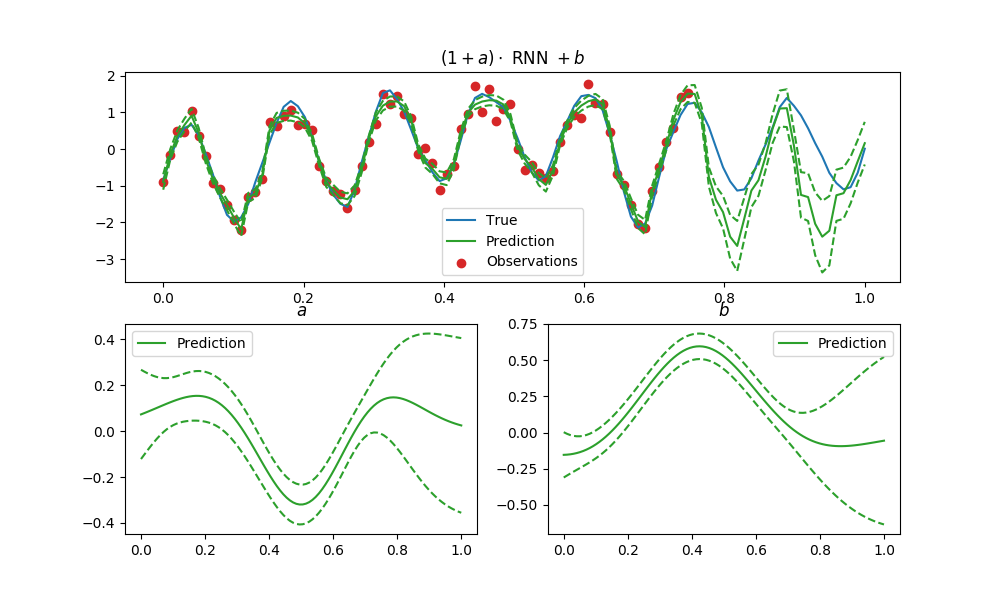
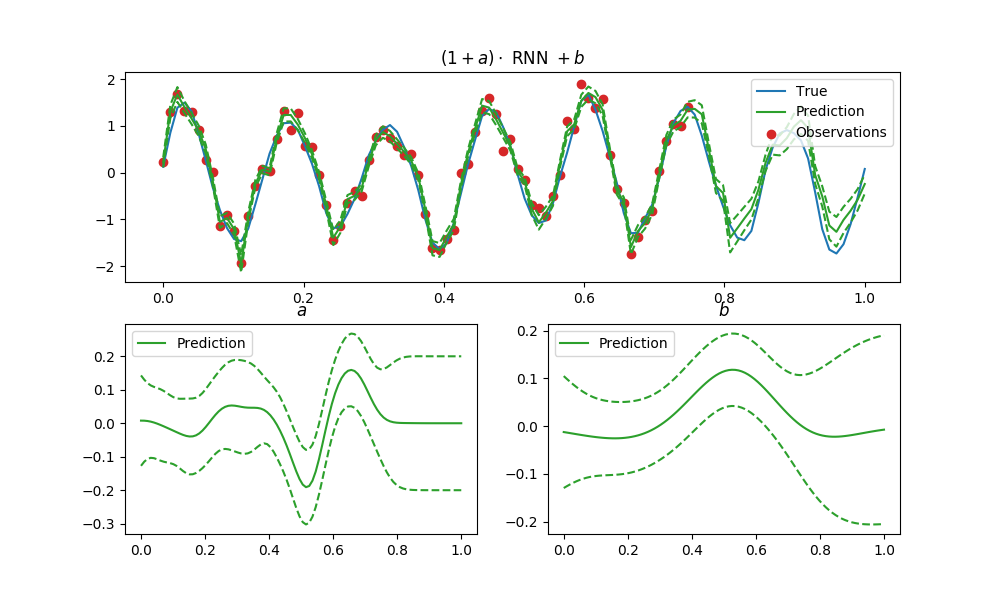
Update GP-RNN example

diff --git a/readme_example8_gp_rnn.py b/readme_example8_gp_rnn.py
@@ -43,9 +43,9 @@ y_true = (y_true - np.mean(y_true)) / np.std(y_true)
 y_obs = y_true[inds_obs]
 
 # Construct the model.
-a = vs_gp.pos(1.0) * GP(EQ()).stretch(vs_gp.pos(0.1))
-b = vs_gp.pos(1.0) * GP(EQ()).stretch(vs_gp.pos(0.1))
-e = vs_gp.pos(0.2) * GP(Delta())
+a = 0.1 * GP(EQ()).stretch(vs_gp.pos(0.1))
+b = 0.1 * GP(EQ()).stretch(vs_gp.pos(0.1))
+e = vs_gp.pos(0.1) * GP(Delta())
 
 # RNN-only model:
 y_rnn = rnn + e
@@ -62,22 +62,16 @@ lml_gp_rnn = y_gp_rnn(x_obs).log_pdf(y_obs)
 opt_rnn = tf.train.AdamOptimizer(1e-2).minimize(
     -lml_rnn, var_list=vs_rnn.vars
 )
-opt_gp = SOI(-lml_gp_rnn,
-             options={'disp': True, 'maxiter': 10},
-             var_list=vs_gp.vars)
 opt_jointly = tf.train.AdamOptimizer(1e-3).minimize(
     -lml_gp_rnn, var_list=vs_rnn.vars + vs_gp.vars
 )
 s.run(tf.global_variables_initializer())
 
-# Pre-train the RNN.
-for i in range(500):
+# Nudge the RNN into the right direction.
+for i in range(2000):
     _, val = s.run([opt_rnn, lml_rnn])
     if i % 100 == 0:
         print(i, val)
-
-# Pre-train the GPs.
-opt_gp.minimize(s)
 
 # Jointly train the RNN and GPs.
 for i in range(5000):

diff --git a/doc/readme.rst b/doc/readme.rst
@@ -591,9 +591,9 @@ Example: A GP–RNN Model
     y_obs = y_true[inds_obs]
 
     # Construct the model.
-    a = vs_gp.pos(1.0) * GP(EQ()).stretch(vs_gp.pos(0.1))
-    b = vs_gp.pos(1.0) * GP(EQ()).stretch(vs_gp.pos(0.1))
-    e = vs_gp.pos(0.2) * GP(Delta())
+    a = 0.1 * GP(EQ()).stretch(vs_gp.pos(0.1))
+    b = 0.1 * GP(EQ()).stretch(vs_gp.pos(0.1))
+    e = vs_gp.pos(0.1) * GP(Delta())
 
     # RNN-only model:
     y_rnn = rnn + e
@@ -610,22 +610,16 @@ Example: A GP–RNN Model
     opt_rnn = tf.train.AdamOptimizer(1e-2).minimize(
         -lml_rnn, var_list=vs_rnn.vars
     )
-    opt_gp = SOI(-lml_gp_rnn,
-                 options={'disp': True, 'maxiter': 10},
-                 var_list=vs_gp.vars)
     opt_jointly = tf.train.AdamOptimizer(1e-3).minimize(
         -lml_gp_rnn, var_list=vs_rnn.vars + vs_gp.vars
     )
     s.run(tf.global_variables_initializer())
 
-    # Pre-train the RNN.
-    for i in range(500):
+    # Nudge the RNN into the right direction.
+    for i in range(2000):
         _, val = s.run([opt_rnn, lml_rnn])
         if i % 100 == 0:
             print(i, val)
-
-    # Pre-train the GPs.
-    opt_gp.minimize(s)
 
     # Jointly train the RNN and GPs.
     for i in range(5000):

diff --git a/README.md b/README.md
@@ -563,9 +563,9 @@ y_true = (y_true - np.mean(y_true)) / np.std(y_true)
 y_obs = y_true[inds_obs]
 
 # Construct the model.
-a = vs_gp.pos(1.0) * GP(EQ()).stretch(vs_gp.pos(0.1))
-b = vs_gp.pos(1.0) * GP(EQ()).stretch(vs_gp.pos(0.1))
-e = vs_gp.pos(0.2) * GP(Delta())
+a = 0.1 * GP(EQ()).stretch(vs_gp.pos(0.1))
+b = 0.1 * GP(EQ()).stretch(vs_gp.pos(0.1))
+e = vs_gp.pos(0.1) * GP(Delta())
 
 # RNN-only model:
 y_rnn = rnn + e
@@ -582,22 +582,16 @@ lml_gp_rnn = y_gp_rnn(x_obs).log_pdf(y_obs)
 opt_rnn = tf.train.AdamOptimizer(1e-2).minimize(
     -lml_rnn, var_list=vs_rnn.vars
 )
-opt_gp = SOI(-lml_gp_rnn,
-             options={'disp': True, 'maxiter': 10},
-             var_list=vs_gp.vars)
 opt_jointly = tf.train.AdamOptimizer(1e-3).minimize(
     -lml_gp_rnn, var_list=vs_rnn.vars + vs_gp.vars
 )
 s.run(tf.global_variables_initializer())
 
-# Pre-train the RNN.
-for i in range(500):
+# Nudge the RNN into the right direction.
+for i in range(2000):
     _, val = s.run([opt_rnn, lml_rnn])
     if i % 100 == 0:
         print(i, val)
-
-# Pre-train the GPs.
-opt_gp.minimize(s)
 
 # Jointly train the RNN and GPs.
 for i in range(5000):
